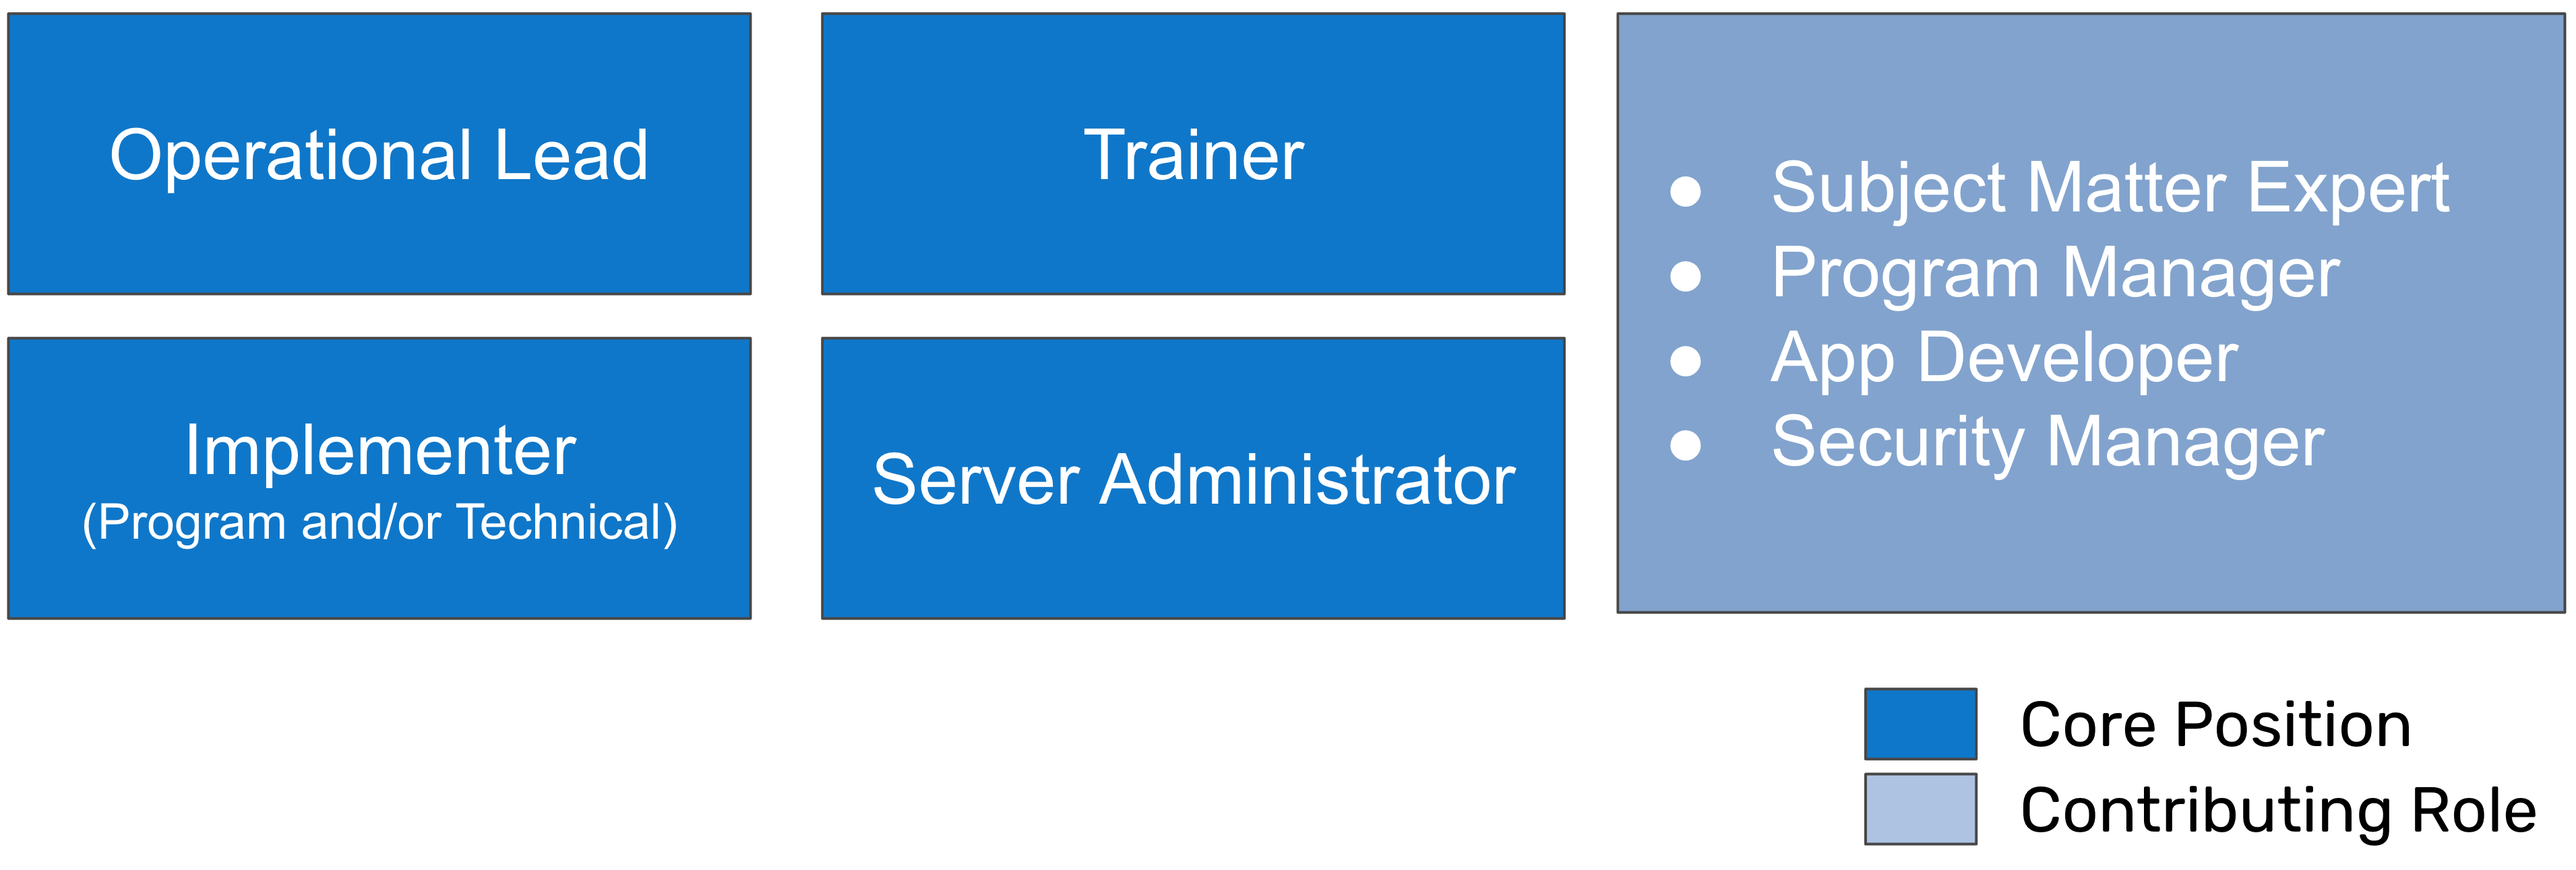
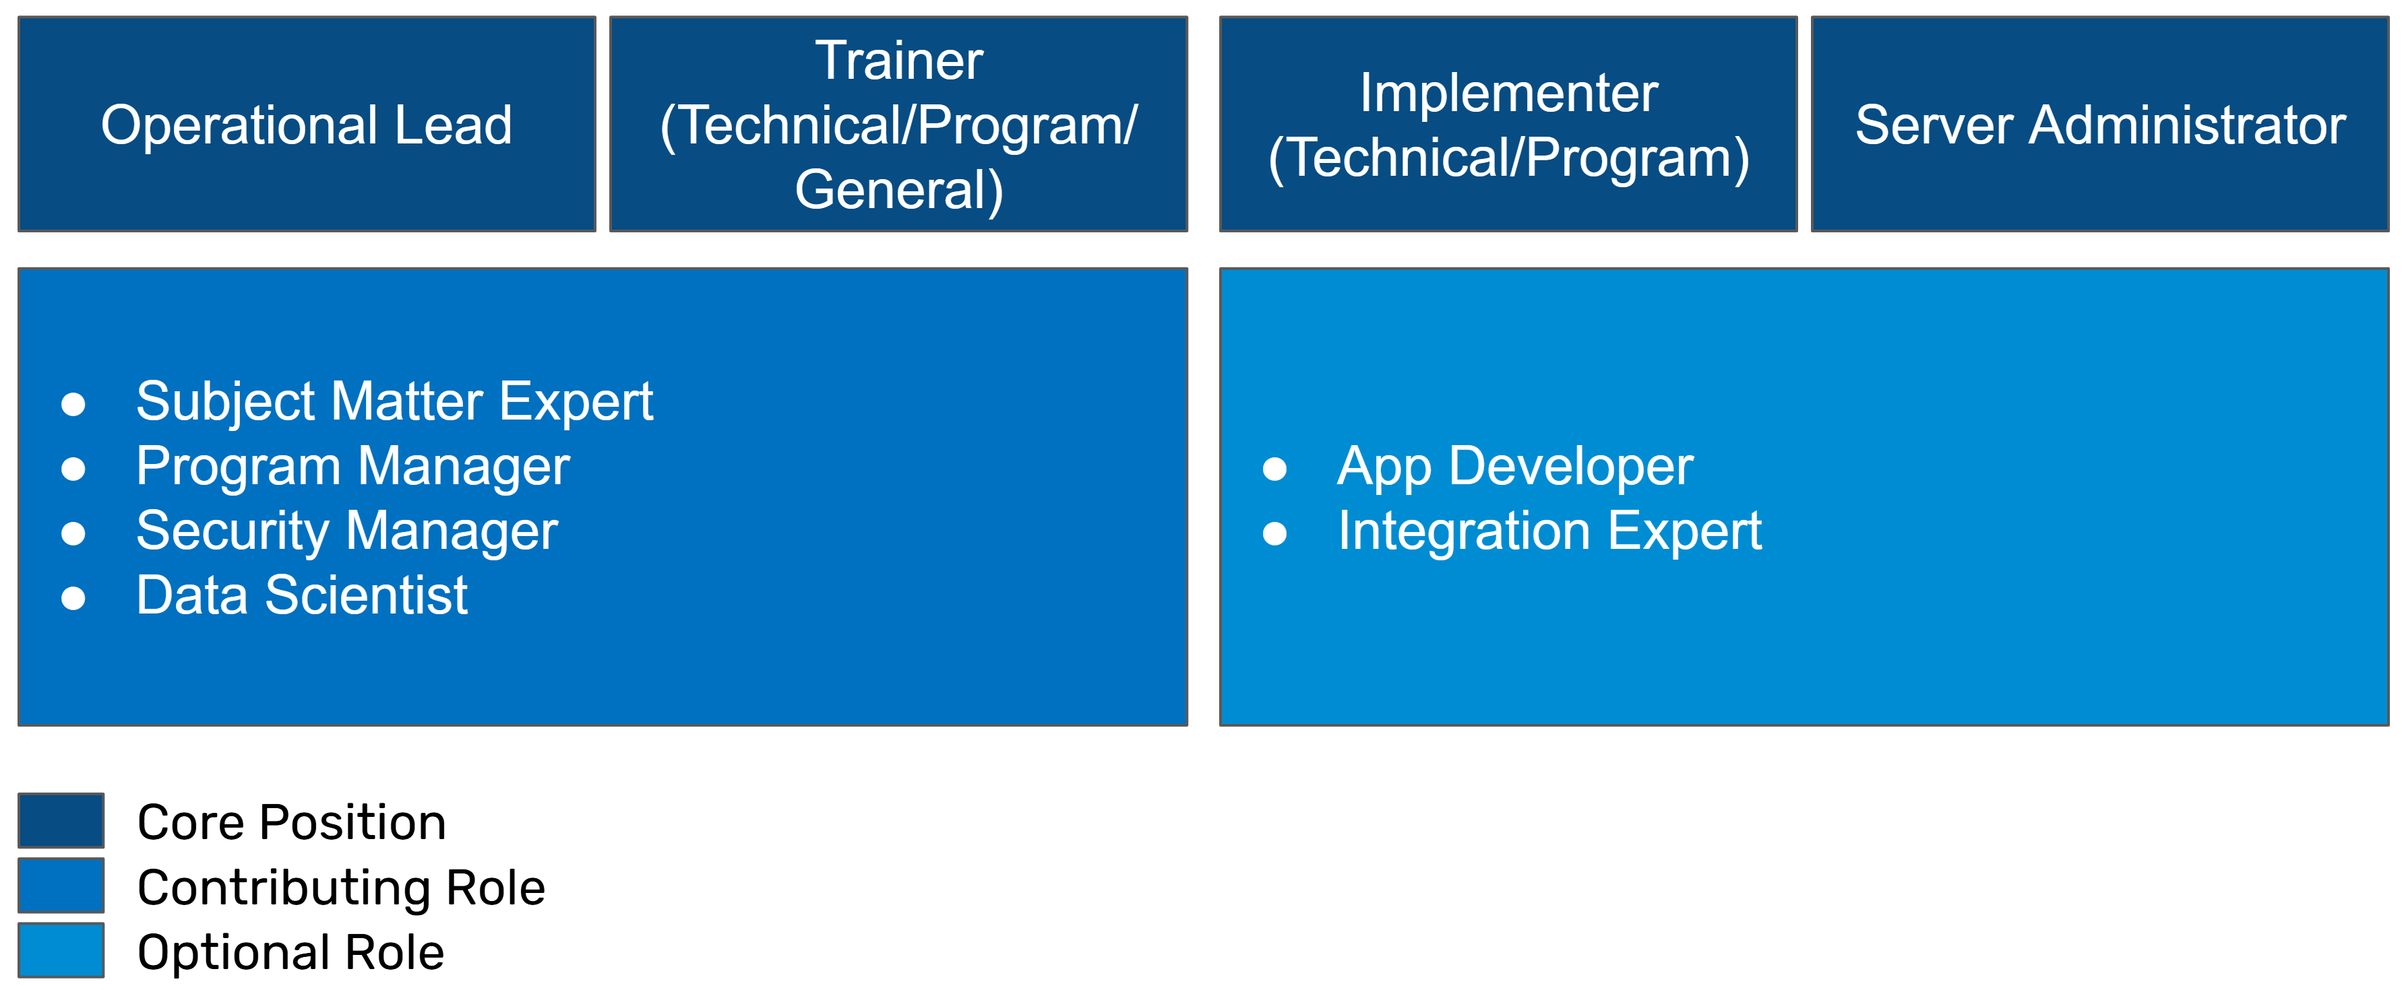
update core team docs

diff --git a/content/implementation/core-team.md b/content/implementation/core-team.md
@@ -8,7 +8,7 @@ A DHIS2 core team can vary in size depending on the context (it may be 1-2 membe
 
 ## Core Team Structure
 
-As part of the DHIS2 core team, we recommend 4 core positions and 4 contributing roles. 
+As part of the DHIS2 core team, we recommend 4 core positions and 4 contributing roles. Additional optional roles can also be added based on local context.
 
 ![Core_Team_Roles](resources/images/core_team/core_team_roles.png)
 
@@ -17,6 +17,8 @@ As part of the DHIS2 core team, we recommend 4 core positions and 4 contributing
 >We define ***core positions*** as those that are required positions within the core team. Excluding the server administrator, we recommend these core positions are dedicated, full time roles focused on DHIS2. The server administrator is identified as a core role due to its importance within the implementation, but may not necessarily be a full time role depending on the infrastructure being managed.
 >
 >***Contributing roles*** are roles that provide external input to the DHIS2 core team on an as needed basis. These are roles that are required to ensure success within the DHIS2 implementation, but are not dedicated, full time roles focused only on DHIS2. We see these roles as providing input when needed while still performing their other duties. 
+>
+>It should be noted that the specific language used to define these roles may vary. Match these role names to specific roles identified in country.
 
 ## Role Descriptions
 
